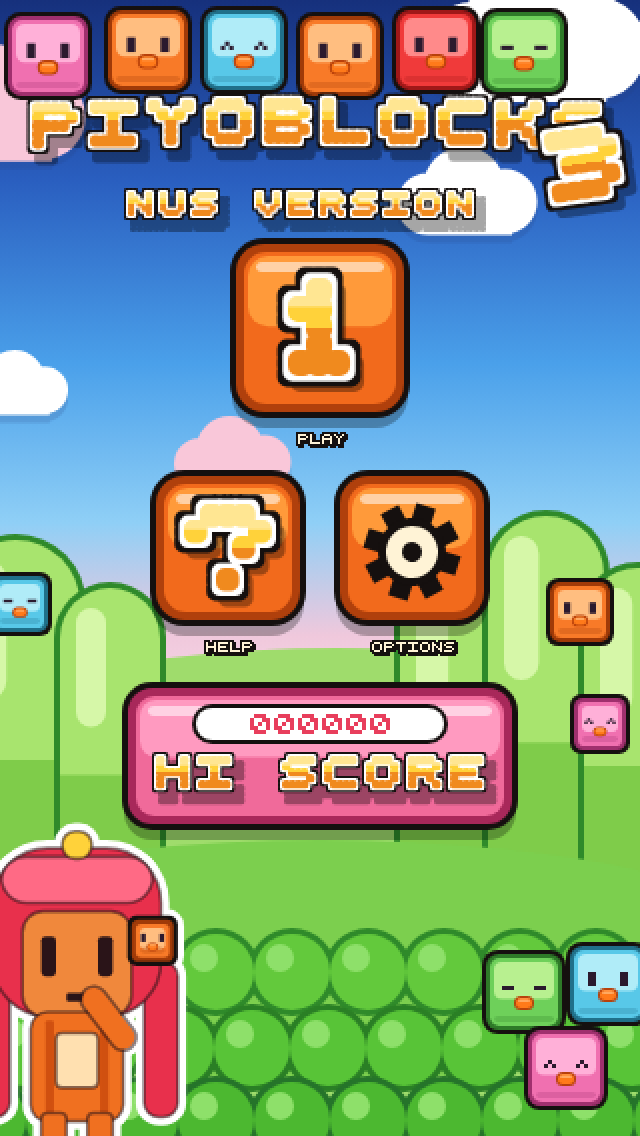
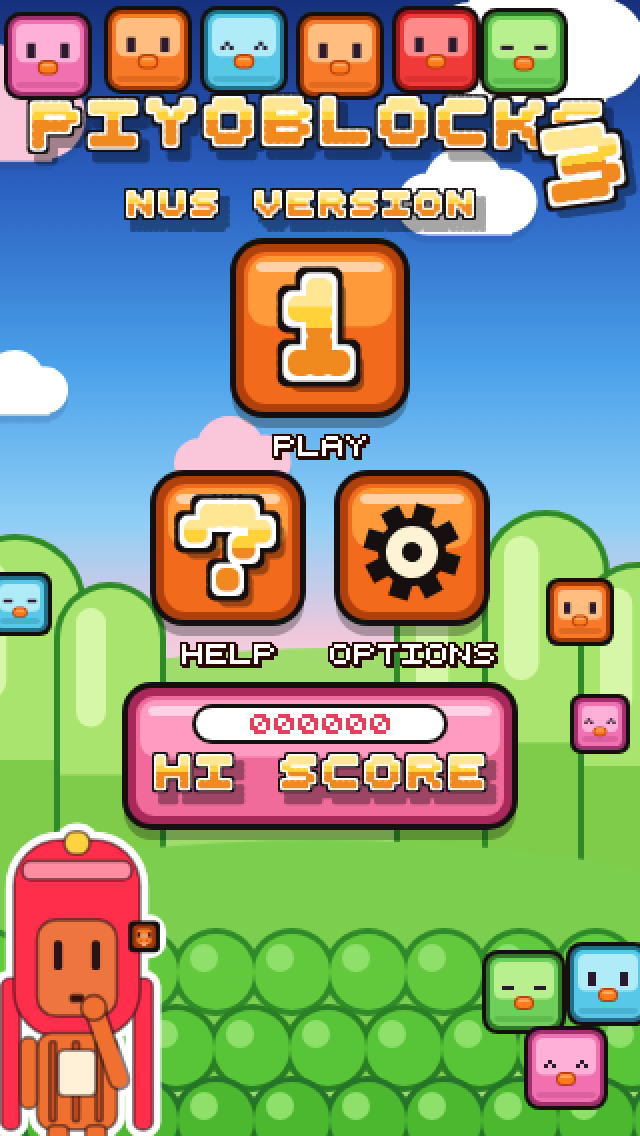
Critic round 3: portrait girl, reference stripes and HUD bands, peach timer, brown bubble

diff --git a/index.html b/index.html
@@ -154,26 +154,27 @@ function drawBlock(cx,cy,s,t,o){
 function rndExpr(){ const r=Math.random(); return r<0.06?1:(r<0.14?2:0); }
 
 // ---------- Piyo the girl (vector shapes in a 100x150 unit box, thick white ring) ----------
-const GIRL=[ // [kind, ...params, colour]; drawn in order
- ['rr',2,62,16,74,7,'#E8304C'],          // left hair tail
- ['rr',82,62,16,74,7,'#E8304C'],         // right hair tail
- ['rr',10,8,80,80,26,'#E8304C'],         // bob helmet
- ['rr',14,12,72,22,12,'#FF6A85'],        // lighter band
- ['rr',43,0,14,13,6,'#FFD23A'],          // crest
- ['rr',24,38,52,50,10,'#F0883C'],        // face
- ['rr',33,50,7,19,2,'#2A1418'],          // eyes
- ['rr',60,50,7,19,2,'#2A1418'],
- ['rr',45,77,10,4,1,'#2A1418'],          // mouth
- ['rr',28,86,44,52,8,'#F07020'],         // dress
- ['rr',35,90,4,44,1,'#D05010'],          // stripes
- ['rr',61,90,4,44,1,'#D05010'],
- ['rr',40,96,20,26,3,'#FFE0B0'],         // apron
- ['rr',33,134,12,18,3,'#F07020'],        // legs
- ['rr',55,134,12,18,3,'#F07020'],
- ['rr',31,148,16,8,3,'#2A1418'],         // shoes
- ['rr',53,148,16,8,3,'#2A1418'],
- ['line',72,98,58,80,11,'#F07020'],      // arm, hand to chin
- ['block',86,52,22,3],                   // hair clip block
+const GIRL=[ // [kind, ...params, colour]; 100x150 unit box, drawn in order
+ ['rr',14,70,9,72,4,'#FF2F4C'],          // left tail (thin)
+ ['rr',77,70,9,72,4,'#FF2F4C'],          // right tail
+ ['rr',20,4,60,94,22,'#FF2F4C'],         // helmet (portrait)
+ ['rr',24,14,52,9,4,'#FF8CA0'],          // lighter band
+ ['rr',44,0,12,11,5,'#FFD23F'],          // crest
+ ['rr',31,42,38,46,9,'#EE7540'],         // face
+ ['rr',39,52,4,14,1.5,'#2A1418'],        // eyes
+ ['rr',57,52,4,14,1.5,'#2A1418'],
+ ['rr',47,78,6,3,1,'#3A1000'],           // mouth
+ ['rr',31,96,38,46,7,'#F07030'],         // dress
+ ['rr',37,100,3,38,1,'#C85020'],         // stripes
+ ['rr',48,100,3,38,1,'#C85020'],
+ ['rr',59,100,3,38,1,'#C85020'],
+ ['rr',41,104,18,22,3,'#FFF0D8'],        // apron
+ ['rr',23,98,8,34,4,'#F07030'],          // left arm hanging
+ ['rr',36,140,10,12,3,'#F07030'],        // legs
+ ['rr',54,140,10,12,3,'#F07030'],
+ ['line',70,118,58,84,8,'#F07030'],      // right forearm to chin
+ ['rr',52,78,12,12,6,'#F07030'],         // fist over the mouth
+ ['block',82,50,13,3],                   // hair clip block on the helmet edge
 ];
 function drawGirl(x,y,sc,bob){
   ctx.save(); ctx.translate(x,y+(bob||0)); ctx.scale(sc,sc);
@@ -247,20 +248,21 @@ function musicUpdate(){
 }
 
 // ---------- backgrounds ----------
-const PALS=[['#ff3a8c','#ff7ab8'],['#ff6410','#ffa055'],['#1fa0ff','#78ccff'],['#33c033','#84e068'],['#9040e8','#c89cff'],['#ffb000','#ffd860'],['#ff2848','#ff8494'],['#0fb8b0','#68e0d8']];
+const PALS=[['#FF7DA0','#FF9FD5'],['#ff6410','#ffa055'],['#1fa0ff','#78ccff'],['#33c033','#84e068'],['#9040e8','#c89cff'],['#ffb000','#ffd860'],['#ff2848','#ff8494'],['#0fb8b0','#68e0d8']];
 function makeBg(level,disco){
   const o=document.createElement('canvas'); o.width=W; o.height=H; const c=o.getContext('2d');
   const pal=disco?['#12101e','#1e1a34']:PALS[(level-1)%PALS.length];
   c.fillStyle=pal[0]; c.fillRect(0,0,W,H);
   c.fillStyle=pal[1];
-  if(!disco&&level%2===1){ for(let y=0;y<H;y+=24) c.fillRect(0,y,W,12); }   // horizontal bands (level 1 look)
+  if(!disco&&level%2===1){ for(let y=60;y<H;y+=48) c.fillRect(0,y,W,24); }   // horizontal bands (level 1 look)
+  if(!disco){ c.fillStyle=level%2===1?'#E8066A':'rgba(0,0,0,0.18)'; c.fillRect(0,0,W,BY-16); c.fillRect(0,BY+ROWS*CELL+10,W,H); }
   else for(let y=-8;y<H;y+=34)for(let x=-8;x<W;x+=34){                           // block-face silhouettes
     c.beginPath(); c.roundRect? c.roundRect(x,y,24,24,4):c.rect(x,y,24,24); c.fill();
     c.fillStyle=pal[0]; c.fillRect(x+6,y+8,4,4); c.fillRect(x+14,y+8,4,4); c.fillRect(x+9,y+16,6,2); c.fillStyle=pal[1];
   }
   // subtle board panel (PB2 style): faint dark rounded rect with 1px edge
   c.fillStyle=disco?'rgba(255,255,255,0.08)':'rgba(255,255,255,0.28)'; c.beginPath(); c.roundRect?c.roundRect(BX-3,BY-3,COLS*CELL+4,ROWS*CELL+4,7):c.rect(BX-3,BY-3,COLS*CELL+4,ROWS*CELL+4); c.fill();
-  c.strokeStyle='rgba(43,26,20,0.45)'; c.lineWidth=2; c.stroke();
+  c.strokeStyle='rgba(192,64,112,0.5)'; c.lineWidth=1; c.stroke();
   return o;
 }
 function cloudPath(x,y,w){ ctx.beginPath(); ctx.arc(x,y,w*0.26,0,Math.PI*2); ctx.arc(x+w*0.3,y-w*0.14,w*0.34,0,Math.PI*2); ctx.arc(x+w*0.64,y-w*0.02,w*0.27,0,Math.PI*2); ctx.rect(x-w*0.05,y,w*0.75,w*0.26); }
@@ -582,7 +584,7 @@ function squareBtn(b){
   glossyPanel(b.x,b.y,b.w,b.h,14,'#b0400c','#f26a1c','#ff9a3a');
   if(b.icon==='gear'){ const cx=b.x+b.w/2, cy=b.y+b.h/2+2; ctx.save(); ctx.translate(cx,cy); ctx.rotate(appT*0.6); ctx.fillStyle='#15100f'; for(let k=0;k<8;k++){ ctx.rotate(Math.PI/4); ctx.fillRect(-5,-24,10,12); } ctx.beginPath(); ctx.arc(0,0,17,0,Math.PI*2); ctx.fill(); ctx.fillStyle='#fff3d6'; ctx.beginPath(); ctx.arc(0,0,13,0,Math.PI*2); ctx.fill(); ctx.fillStyle='#15100f'; ctx.beginPath(); ctx.arc(0,0,5,0,Math.PI*2); ctx.fill(); ctx.restore(); }
   else chunkyText(b.glyph,b.x+b.w/2,b.y+(b.h-6*b.gsc)/2+2,b.gsc,6*b.gsc+6,'center',0);
-  drawTextO(b.label,b.x+b.w/2,b.y+b.h+11,b.lsc||1,'#fff3d6','#15100f','center',1,'#15100f');
+  drawTextO(b.label,b.x+b.w/2,b.y+b.h+12,2,'#ffffff','#2A0A00','center',1,'#2A0A00');
 }
 function drawHook(x,y,w,h){ frr(x,y,w,h,3,'#7a4a08'); frr(x+2,y+2,w-4,h-4,2,'#f7c236'); frr(x+3,y+3,w-6,3,1,'#ffe69a'); }
 let titleToast=0;
@@ -650,12 +652,12 @@ function renderGame(){
   ctx.beginPath(); ctx.arc(19,18,12.5,0,Math.PI*2); ctx.fillStyle='#15100f'; ctx.fill(); ctx.beginPath(); ctx.arc(19,18,10.5,0,Math.PI*2); ctx.fillStyle='#8a8a8a'; ctx.fill(); ctx.beginPath(); ctx.arc(19,18,8.5,0,Math.PI*2); ctx.fillStyle='#F4F4F4'; ctx.fill(); ctx.globalAlpha=.6; ctx.beginPath(); ctx.arc(16,14,3.5,0,Math.PI*2); ctx.fillStyle='#fff'; ctx.fill(); ctx.globalAlpha=1;
   ctx.strokeStyle='#e8323c'; ctx.lineWidth=2; ctx.beginPath(); ctx.moveTo(19,18); ctx.lineTo(19,12); ctx.moveTo(19,18); ctx.lineTo(23,20); ctx.stroke(); ctx.fillStyle='#3A3A3A'; ctx.fillRect(17,4,4,4); ctx.fillRect(15,3,8,2);
   // timer bar
-  frr(34,5,246,24,6,'#15100f'); frr(36,7,242,20,4,'#7A2A10'); frr(38,9,238,16,3,disco?'#1a1a2e':'#5A1E0C');
+  frr(34,5,246,24,6,'#15100f'); frr(36,7,242,20,4,'#A34E29'); frr(38,9,238,16,3,disco?'#1a1a2e':'#3A0010');
   let frac=1; if(mode.id==='three') frac=moveTime/3; else if(mode.id==='endless') frac=1; else frac=time/maxTime;
   frac=Math.max(0,Math.min(1,frac));
-  let barCol=disco?'#4cc3ff':'#F04A28'; if(mode.id!=='endless'&&frac<0.25&&Math.floor(appT*6)%2===0) barCol='#ffd23a';
+  let barCol=disco?'#94FEF0':'#FFEABF'; if(mode.id!=='endless'&&frac<0.25&&Math.floor(appT*6)%2===0) barCol='#ffd23a';
   if(mode.id==='endless'){ const g=ctx.createLinearGradient(38,0,276,0); ['#ff62ad','#ffd23f','#63d63c','#4cc3ff'].forEach((c,i)=>g.addColorStop(i/3,c)); barCol=g; }
-  if(frac>0){ const bw=Math.max(8,238*frac); frr(38,9,bw,16,3,barCol); frr(38+Math.max(0,bw-14),9,Math.min(14,bw),16,3,disco?'#a8e8ff':'#FF8A50'); ctx.globalAlpha=.35; frr(40,11,Math.max(2,bw-4),3,1,'#fff'); ctx.globalAlpha=1; }
+  if(frac>0){ const bw=Math.max(8,238*frac); frr(38,9,bw,16,3,barCol); frr(38+Math.max(0,bw-12),9,Math.min(12,bw),16,3,disco?'#4cc3ff':'#FF5E3E'); ctx.globalAlpha=.6; frr(40,10,Math.max(2,bw-4),2,1,'#fff'); ctx.globalAlpha=1; }
   // pause: square orange button
   frr(284,5,28,26,6,'#15100f'); frr(286,7,24,22,4,'#b0400c'); frr(288,9,20,18,3,'#f79a2e'); frr(290,11,16,6,2,'#ffbf70'); ctx.fillStyle='#fff6e0'; ctx.fillRect(293,13,3,11); ctx.fillRect(300,13,3,11);
   drawTextO('SCORE',22,44,2,'#fff6e0','#2b1a14','left',1,'#2b1a14'); drawTextO(pad(score,6),96,44,2,'#fff6e0','#2b1a14','left',1,'#2b1a14');
@@ -697,9 +699,9 @@ function renderGame(){
   }
   if(phase==='levelup'){
     const p=Math.max(0,Math.min(1,(2.4-luT)/0.3));
-    const yb=112+(1-p)*-60; stairRect(40,yb,240,60,3,'#141414'); ctx.fillStyle='#141414'; ctx.fillRect(148,yb+60,24,4); ctx.fillRect(152,yb+64,16,4); ctx.fillRect(156,yb+68,8,4);
+    const yb=112+(1-p)*-60; stairRect(40,yb,240,60,3,'#2E160C'); ctx.fillStyle='#2E160C'; ctx.fillRect(148,yb+60,24,4); ctx.fillRect(152,yb+64,16,4); ctx.fillRect(156,yb+68,8,4);
     chunkyText('LEVEL UP!',160,yb+18,5,27,'center',0);
-    drawGirl(75,240,1.8,Math.abs(Math.sin(appT*8))*-8);
+    drawGirl(72,236,1.75,Math.abs(Math.sin(appT*8))*-8);
   }
   if(phase==='paused'){
     ctx.fillStyle='rgba(20,10,30,0.75)'; ctx.fillRect(0,0,W,H);
